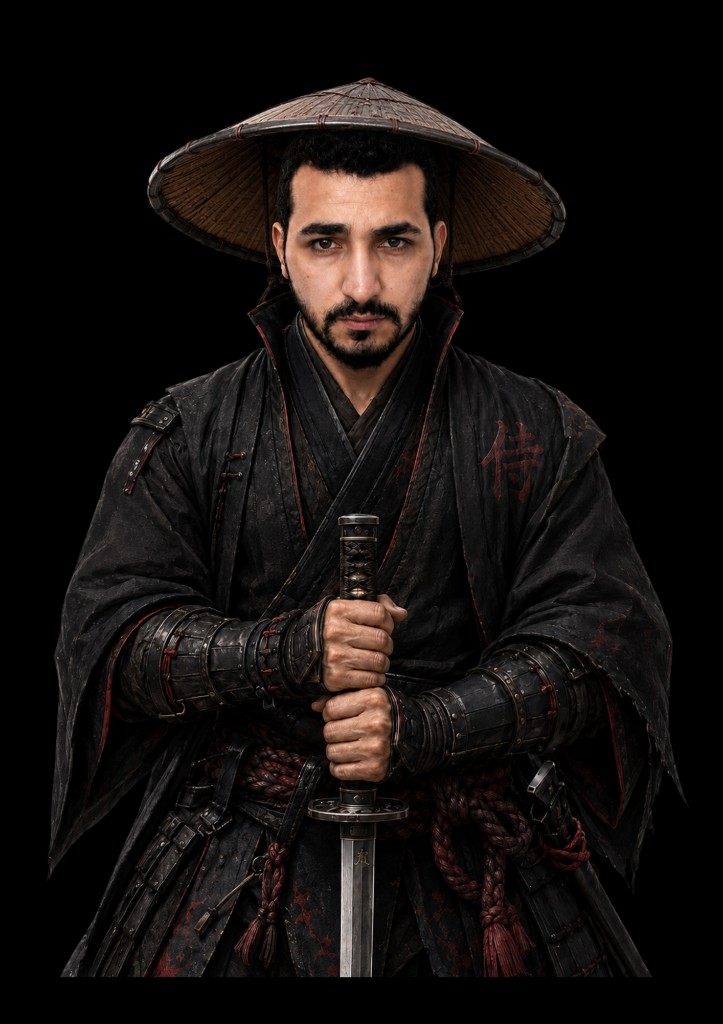
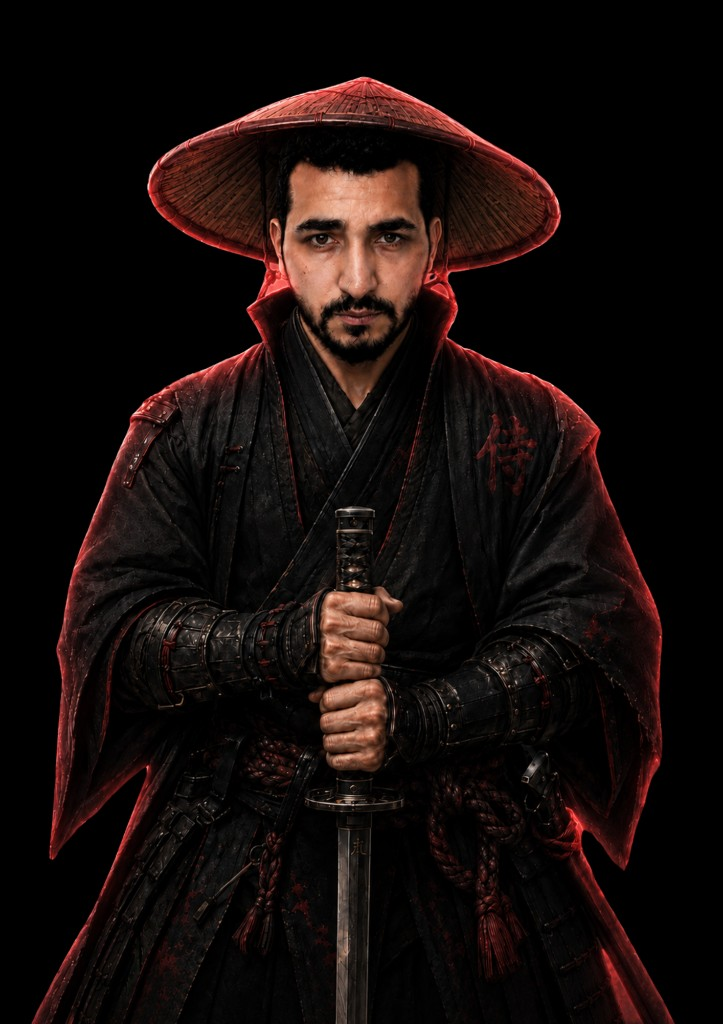
Hero: new samurai cutout with careful bg removal, red rim preserved

Changed region(s): [[0.0304, 0.0625, 0.9433, 1.0]]

diff --git a/css/styles.css b/css/styles.css
@@ -361,7 +361,7 @@ ul {
   min-height: 480px;
 }
 
-.hero-visual--scene {
+.hero-visual--cutout {
   min-height: clamp(420px, 75vh, 680px);
   padding: 0;
   background: transparent;
@@ -390,27 +390,26 @@ ul {
   margin-bottom: -2rem;
 }
 
-.hero-photo--scene {
-  width: min(100%, 420px);
+.hero-photo--cutout {
+  width: min(100%, 460px);
   margin-bottom: 0;
-  border-radius: 16px;
-  overflow: hidden;
-  box-shadow: 0 24px 56px rgba(28, 18, 16, 0.18);
-  border: 2px solid rgba(185, 28, 28, 0.2);
+  background: transparent;
 }
 
 .hero-photo img {
   width: 100%;
   height: auto;
-  object-fit: cover;
   display: block;
 }
 
-.hero-photo--scene img {
-  max-height: min(75vh, 640px);
-  width: 100%;
-  object-fit: cover;
-  object-position: center top;
+.hero-photo--cutout img {
+  max-height: min(78vh, 660px);
+  width: auto;
+  max-width: 100%;
+  margin-inline: auto;
+  object-fit: contain;
+  object-position: center bottom;
+  filter: drop-shadow(0 16px 32px rgba(185, 28, 28, 0.12));
 }
 
 /* ROLE CARDS */

diff --git a/index.html b/index.html
@@ -62,14 +62,14 @@
             <a href="#contact" class="btn btn-solid">Hire Me Now</a>
           </div>
         </div>
-        <div class="hero-visual hero-visual--scene" data-animate="fade-left" data-delay="2">
-          <figure class="hero-photo hero-photo--scene">
+        <div class="hero-visual hero-visual--cutout" data-animate="fade-left" data-delay="2">
+          <figure class="hero-photo hero-photo--cutout">
             <img
               data-bind-src="images.hero"
-              src="assets/images/samurai-hero.png?v=5"
+              src="assets/images/samurai-hero.png?v=6"
               alt="Shilo Hadad ? Samurai portrait"
-              width="723"
-              height="1024"
+              width="674"
+              height="963"
             />
           </figure>
         </div>

diff --git a/js/main.js b/js/main.js
@@ -29,7 +29,7 @@
         const key = el.getAttribute("data-bind-src");
         el.src =
           key === "images.hero"
-            ? "assets/images/samurai-hero.png?v=5"
+            ? "assets/images/samurai-hero.png?v=6"
             : "assets/images/shilo.png";
       };
     });